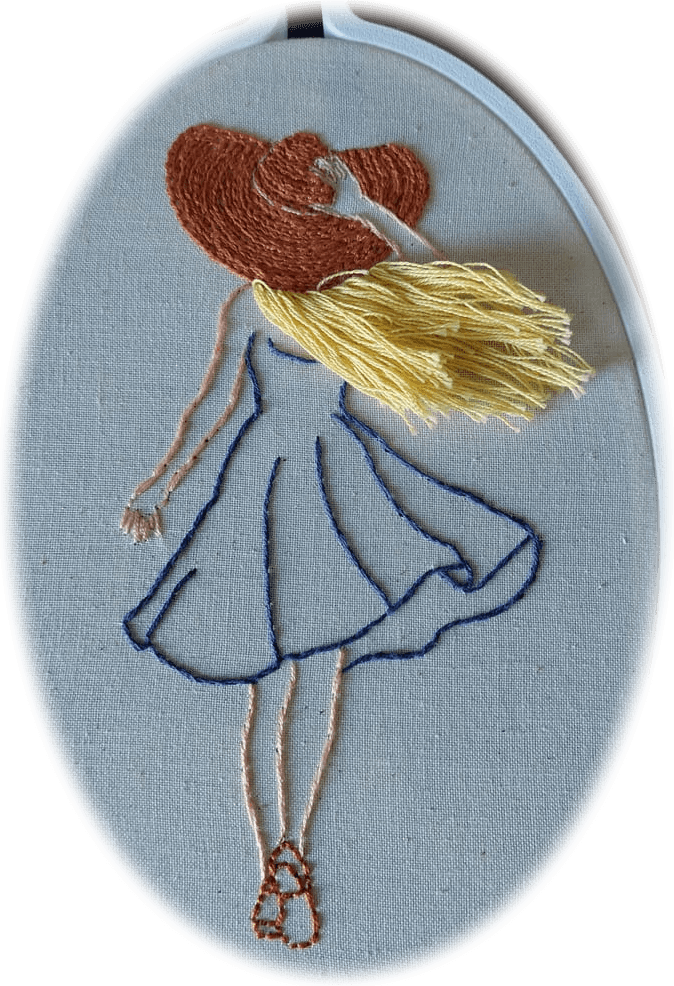
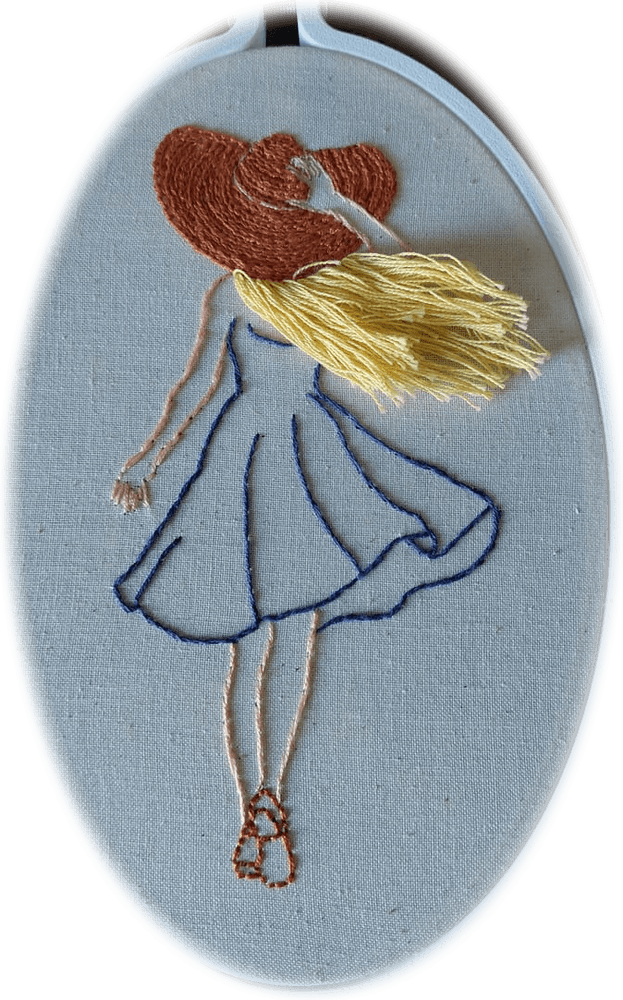
Reintroduit le contour du cerceau, surtout en bas
Le masque etait trop resserre et rognait le bord clair du cerceau (visible
en haut/cotes mais coupe en bas). Agrandi verticalement et centre reglisse
vers le bas (cy 50->53, ry 40->44) pour restaurer ce contour tout autour,
sans reintroduire de fond sombre.

diff --git a/index.html b/index.html
@@ -104,7 +104,7 @@
           </p>
         </div>
         <div class="hero-split-photo reveal">
-          <img src="./images/hero-box-juin-oval.png" alt="Broderie de la box du mois : silhouette en robe au vent, chapeau et cheveux dorés" width="674" height="986" loading="eager" decoding="async" fetchpriority="high" />
+          <img src="./images/hero-box-juin-oval.png" alt="Broderie de la box du mois : silhouette en robe au vent, chapeau et cheveux dorés" width="623" height="1000" loading="eager" decoding="async" fetchpriority="high" />
         </div>
       </section>
 
